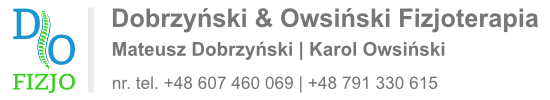
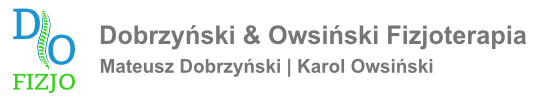
fix: image, style, href adjustments

Changed region(s): [[0.1855, 0.06, 0.9891, 0.93]]

diff --git a/src/main/resources/static/styles.css b/src/main/resources/static/styles.css
@@ -27,7 +27,7 @@ h1 {
 
 h2 {
     font-family: var(--fontMajor);
-    font-size: 45px;
+    font-size: 35px; /* testink */
     margin-bottom: 0px;
     margin-top: 0px;
 }
@@ -51,7 +51,7 @@ body {
 
 hr {
     height: 5px;
-    background-color: #3c97cd;
+    background-color: var(--siteMajor);
     border-width: 0px;
     border-radius: 5px;
     max-width: 450px;
@@ -62,6 +62,21 @@ p {
     font-size: 22px; /* was 24 */
 }
 
+a {
+    font-family: var(--fontMinor);
+    font-weight: bold;
+    color: grey;
+    text-decoration: none;
+    font-size: 22px;
+}
+
+a:hover {
+    color: var(--siteMajor);
+}
+
+.fuckoff {
+    text-align: center;
+}
 
 /* HEADER */
 .header {
@@ -128,7 +143,7 @@ p {
 }
 
 .separator {
-    background-color: #3c97cd;
+    background-color: var(--siteMajor);
     min-height: 35px;
 }
 
@@ -177,7 +192,6 @@ p {
 }
 
 .image-text {
-    float: right;
     background-color: white;
     padding: 40px;
 }
@@ -190,7 +204,7 @@ p {
 
 /* GRID */
 .container {
-    margin-top: 100px;
+    margin-top: 25px;
     display: grid;
     justify-content: start;
     grid-template-rows: auto auto auto;
@@ -310,7 +324,7 @@ p {
 }
 
 .grid-right h2 {
-    text-align: rleft;
+    text-align: left;
     font-weight: lighter;
     margin-top: 0px;
 }
@@ -387,7 +401,7 @@ p {
 
 #phone {
     font-weight: bolder;
-    color: #3c97cd;
+    color: var(--siteMajor);
 }
 
 .location {
@@ -414,9 +428,12 @@ p {
 .flex-partners {
     display: flex;
     flex-direction: row;
-    justify-content: space-evenly;
-    margin-top: 50px;
     flex-wrap: wrap;
+    row-gap: 20px;
+    column-gap: 20px;
+    justify-content: center;
+    margin-top: 0px;
+    padding: 50px;
 }
 
 .flex-partner-block {
@@ -430,10 +447,12 @@ p {
     border-radius: 20px;
     background-color: #f1edf2;
     transition: ease-in 0.5s;
+    max-width: 350px;
+    max-height: 650px;
 }
 
 .flex-partner-block:hover {
-    transform: scale(1.1);
+    transform: scale(1.05);
 }
 
 .flex-partner-block img {
@@ -457,16 +476,15 @@ p {
 .flex-partner-block p {
     text-align: center;
     align-self: center;
-    max-width: 250px;
 }
 
 .karol p {
-    text-align: justify;
+    text-align: left;
 }
 
 .mateusz p {
-    text-align: justify;
-    max-width: 500px;
+    text-align: right;
+    max-width: 700px;
     align-self: flex-end;
 }
 
@@ -548,6 +566,7 @@ tr:hover {
     background-color: #fff;
     font-family: var(--fontMinor);
     padding: 30px;
+    font-size: 22px;
 }
 
 .hide-row {
@@ -696,6 +715,7 @@ tr:hover {
 .fa-facebook {
     background: #3B5998;
     color: white;
+    border-radius: 15px;
 }
 
 .fa-twitter {
@@ -706,6 +726,7 @@ tr:hover {
 .fa-instagram {
     background: #125688;
     color: white;
+    border-radius: 15px;
 }
 
 .home-socials-tile {
@@ -732,6 +753,18 @@ tr:hover {
     }
 
     p {
+        font-size: 20px;
+    }
+
+    a {
+        font-size: 20px;
+    }
+
+    .mateusz a {
+        font-size: 20px;
+    }
+
+    .karol a {
         font-size: 20px;
     }
 
@@ -771,6 +804,18 @@ tr:hover {
     }
 
     p {
+        font-size: 15px;
+    }
+
+    a {
+        font-size: 15px;
+    }
+
+    .mateusz a {
+        font-size: 15px;
+    }
+
+    .karol a {
         font-size: 15px;
     }
 
@@ -863,13 +908,14 @@ tr:hover {
     .flex-partners {
         display: flex;
         flex-direction: row;
-        justify-content: space-evenly;
+        justify-content: center;
         margin-top: 25px;
         flex-wrap: wrap;
     }
 
     .flex-partner-block {
-        max-width: 200px;
+        max-width: 275px;
+        max-height: 475px;
     }
 
     .flex-partner-block img {
@@ -890,6 +936,10 @@ tr:hover {
     td,
     th {
         font-size: 18px;
+    }
+
+    .expanded-row-content {
+        font-size: 15px;
     }
 
     /* BLOG */
@@ -977,7 +1027,7 @@ tr:hover {
     }
 
     .separator {
-        background-color: #3c97cd;
+        background-color: var(--siteMajor);
         min-height: 35px;
     }
 
@@ -995,6 +1045,18 @@ tr:hover {
     }
 
     p {
+        font-size: 14px;
+    }
+
+    a {
+        font-size: 14px;
+    }
+
+    .mateusz a {
+        font-size: 14px;
+    }
+
+    .karol a {
         font-size: 14px;
     }
 
@@ -1113,13 +1175,14 @@ tr:hover {
     .flex-partners {
         display: flex;
         flex-direction: row;
-        justify-content: space-evenly;
+        justify-content: center;
         margin-top: 25px;
         flex-wrap: wrap;
     }
 
     .flex-partner-block {
-        max-width: 150px;
+        max-width: 200px;
+        max-height: 375px;
     }
 
     .flex-partner-block img {
@@ -1139,6 +1202,10 @@ tr:hover {
 
     td,
     th {
+        font-size: 14px;
+    }
+
+    .expanded-row-content {
         font-size: 14px;
     }
 

diff --git a/src/main/resources/templates/home.html b/src/main/resources/templates/home.html
@@ -25,7 +25,7 @@
 <div class="header">
     <div class="flex-header">
         <div class="quick-contact-flex">
-            <a href="#link" id="quick-contact-address" th:utext="${lokalizacja.title}"> address </a>
+            <a href="https://goo.gl/maps/KUJPxGVNsUDqg98H6" id="quick-contact-address" th:utext="${lokalizacja.title}"> address </a>
             <a href="tel:+48 731 278 308" id="quick-contact-phone" th:utext="${kontakt.title}"> phone </a>
         </div>
         <div class="navigation-link-flex">
@@ -44,7 +44,7 @@
 <div class="mobile-header">
     <div class="flex-header">
         <div class="quick-contact-flex">
-            <a href="#link" th:utext="${lokalizacja.title}"> address </a>
+            <a href="https://goo.gl/maps/KUJPxGVNsUDqg98H6" th:utext="${lokalizacja.title}"> address </a>
             <a href="tel:+48 731 278 308" th:utext="${kontakt.title}"> phone </a>
         </div>
         <div class="dropdown">
@@ -122,7 +122,7 @@
                     if(counter > 4){
                       counter = 1;
                     }
-                  }, 7500);
+                  }, 6000);
             </script>
         </div>
     </div>
@@ -133,6 +133,9 @@
             <h1 th:utext="${oferta.title}"> oferta </h1>
             <hr>
             <p th:utext="${oferta.content}"> opis </p>
+            <a th:href="@{/office}">
+                <p style="text-align: center;">Sprawdź ofertę dla firm</p>
+            </a>
         </div>
     </div>
 
@@ -195,7 +198,9 @@
             <div class="contact" id="kontakt">
                 <h1 class="revealrowright">Kontakt</h1>
                 <h2 class="revealrowright" th:utext="${kontakt.content}"> email </h2>
-                <h2 class="revealrowright" id="phone" th:utext="${kontakt.title}"> phone </h2>
+                <a href="tel:+48 731 278 308" style="text-decoration: none">
+                    <h2 class="revealrowright" id="phone" th:utext="${kontakt.title}"> phone </h2>
+                </a>
                 <h2 class="revealrowright" th:utext="${lokalizacja.title}"> address </h2>
                 <h2 class="revealrowright" th:utext="${lokalizacja.content}"> address2 </h2>
                 <!--<img th:src="@{images/logo.png}" class="revealrowright">-->

diff --git a/src/main/resources/static/blog-styles.css b/src/main/resources/static/blog-styles.css
@@ -172,7 +172,7 @@ body {
 
 .blog-separator hr {
     height: 5px;
-    background-color: #3c97cd;
+    background-color: var(--siteMajor);
     border-width: 0px;
     border-radius: 5px;
     max-width: 1000px;
